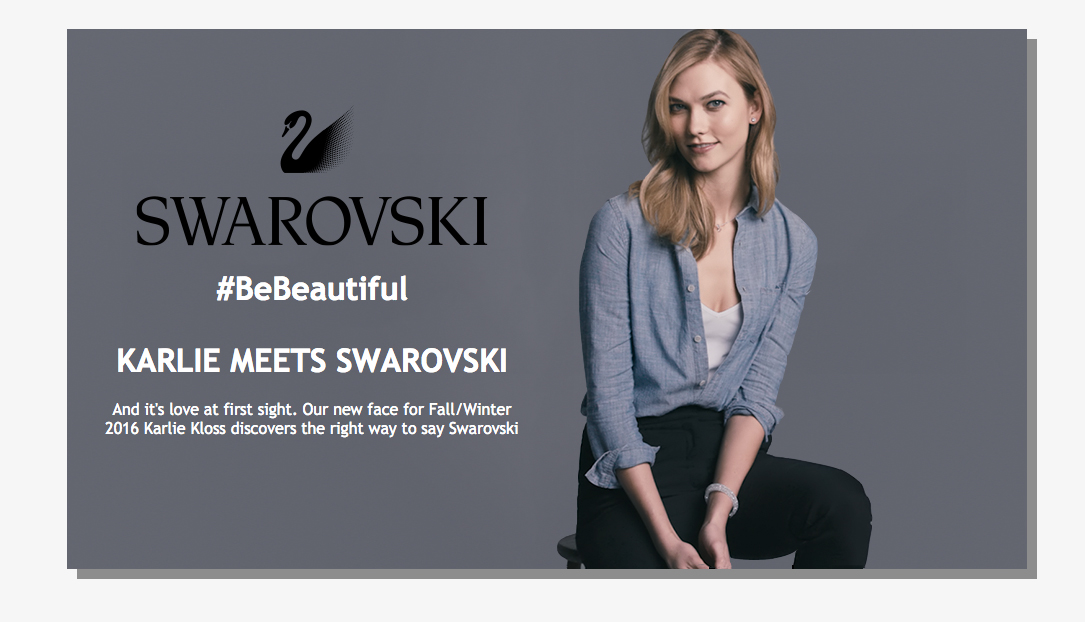
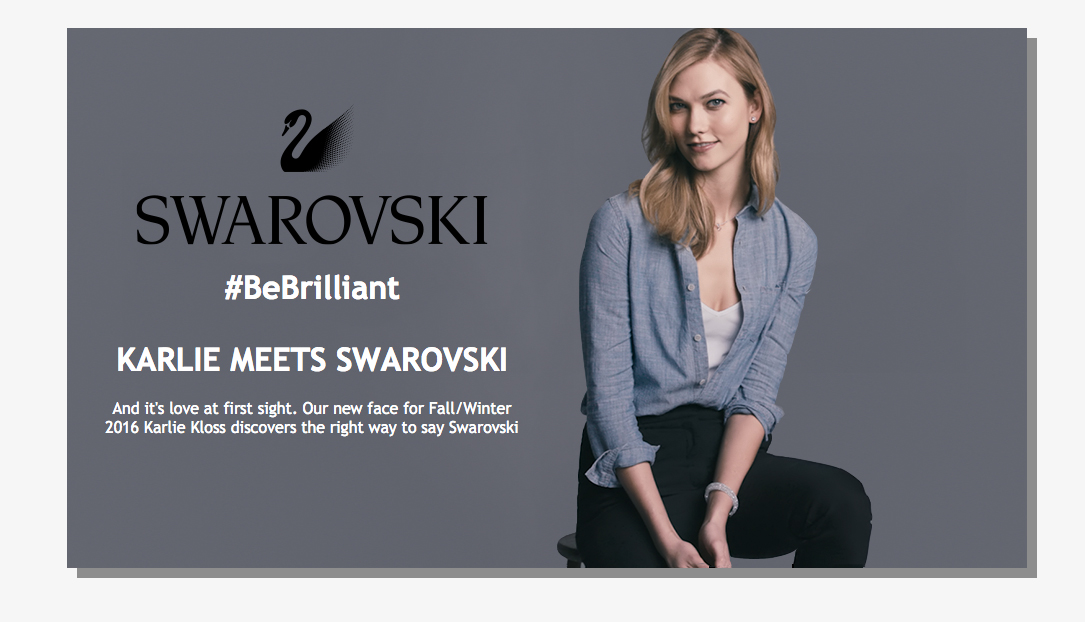
updated all BeBeautifuls to BeBrilliants

diff --git a/index.html b/index.html
@@ -20,8 +20,8 @@
             <img src="images/swarovski_logo_v2016.png">
         </div>
 
-        <div id="be-beautiful">
-            <a href="http://www.swarovski.com/Web_US/en/Swarovski.com/bebrilliant"><h1>#BeBeautiful</h1></a>
+        <div id="be-brilliant">
+            <a href="http://www.swarovski.com/Web_US/en/Swarovski.com/bebrilliant"><h1>#BeBrilliant</h1></a>
         </div>
 
         <div id="left-column-bottom-row">

diff --git a/css/style.css b/css/style.css
@@ -18,7 +18,7 @@ body, html {
     float: right;
 }
 
-#top-box,#logo,#be-beautiful{
+#top-box,#logo,#be-brilliant{
     width: 490px;
 }
 
@@ -30,7 +30,7 @@ body, html {
     height: 150px;
 }
 
-#be-beautiful{
+#be-brilliant{
     height: 50px;
     color: white;
     text-align: center;

diff --git a/SOURCE.md b/SOURCE.md
@@ -2,7 +2,7 @@
 
 [swarovski_logo_v2016.png]
 
-#BeBeautiful
+#BeBrilliant
 
 KARLIE MEETS SWAROVSKI
 
